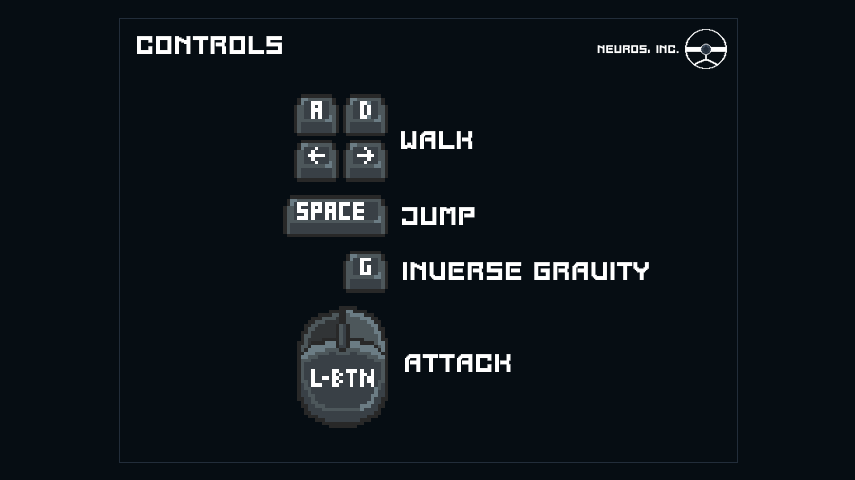
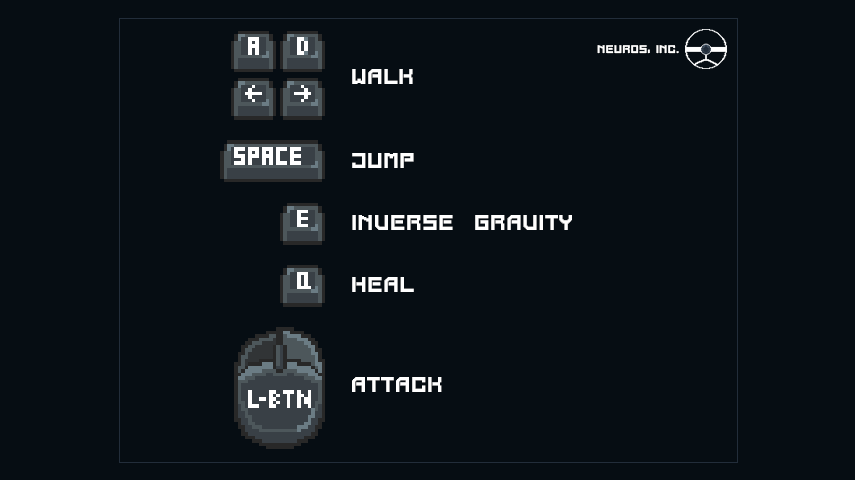
tutorial und fixes

Changed region(s): [[0.152, 0.0625, 0.7602, 0.9375], [0.7602, 0.0938, 0.7906, 0.125], [0.6994, 0.0938, 0.7298, 0.125]]

diff --git a/game/enemies/guard.py b/game/enemies/guard.py
@@ -1,5 +1,4 @@
 import pygame
-
 from game.enemies.enemy_registry import register_enemy
 from game.entities import Entity
 
@@ -10,18 +9,12 @@ class Guard(Entity):
         self.player = player
         self.level = level
         self.speed = 40
-        self.jump_force = 160
         self.damage = 1
         self.detection_range = 8  # Distance to start chasing the player
         self.kb_x = 3
         self.kb_y = 2
-        self.max_health =  6
+        self.max_health = 6
         self.health = self.max_health
-
-        # AI flags
-        self.has_jumped = True
-        self.drop = False
-        self.obstacle = False
 
         # animations
         self.state = "run"
@@ -31,47 +24,39 @@ class Guard(Entity):
 
     def update(self, level, dt):
         """Handles enemy movement and AI behavior."""
-        if self.velocity.x > 0:
-            self.facing_right = True
-        elif self.velocity.x < 0:
-            self.facing_right = False
+        if not self.is_dying:
+            if self.velocity.x > 0:
+                self.facing_right = True
+            elif self.velocity.x < 0:
+                self.facing_right = False
 
-        # Chase player if nearby
-        distance_to_player = pygame.Vector2(self.rect.midbottom).distance_to(self.player.rect.midtop)
-        if not self.stun:
-            if distance_to_player < self.detection_range * self.level.tile_size:
-                self.chase_player(dt)
-                self.set_state("follow")
-            else:
-                self.patrol(level, dt)
-                self.set_state("run")
+            # Chase player if nearby
+            distance_to_player = pygame.Vector2(self.rect.midbottom).distance_to(self.player.rect.midtop)
+            if not self.stun:
+                if distance_to_player < self.detection_range * self.level.tile_size:
+                    self.chase_player(dt)
+                    self.set_state("follow")
+                else:
+                    self.patrol(level, dt)
+                    self.set_state("run")
 
-        if self.on_ground:
-            self.has_jumped = False
-
-        # Jump over obstacles or gaps
-        if self.drop and not self.has_jumped:
-            self.jump(dt, 15 * self.speed, 120, level.gravity >= 0)
-            self.has_jumped = True
-        elif self.obstacle and not self.has_jumped:
-            self.jump(dt, 0, 200, level.gravity >= 0)
-            self.has_jumped = True
+            # Attack player if touching them
+            if self.rect.colliderect(self.player.rect):
+                self.attack()
 
         super().update(level, dt)
 
-        # Attack player if touching them
-        if self.rect.colliderect(self.player.rect):
-            self.attack()
-
     def patrol(self, level, dt):
-        """Moves the enemy left and right, reversing direction on collisions."""
-        if self.facing_right:
-            self.velocity.x = self.speed * dt
-        else:
-            self.velocity.x = -self.speed * dt
+        """Moves the enemy left and right, reversing direction on collisions or drops."""
+        dir_str = "right" if self.facing_right else "left"
+        safe = self.is_direction_safe(level, dir_str)
 
-        if not self.is_direction_safe(level, "right" if self.facing_right else "left"):
-            self.velocity.x *= -1
+        if safe:
+            # Nur setzen, wenn der Guard sich wirklich bewegen darf
+            self.velocity.x = self.speed * dt if self.facing_right else -self.speed * dt
+        else:
+            # Bleib stehen, damit er nicht "zittert", und dreh erst nach kurzer Pause um
+            self.velocity.x = 0
             self.facing_right = not self.facing_right
 
     def chase_player(self, dt):
@@ -85,16 +70,5 @@ class Guard(Entity):
         """Handles enemy attacking logic."""
         if self.player.immunity_frames:
             return
-        self.sound_manager.play_sfx("guard_attack")  # Philippcode
+        self.sound_manager.play_sfx("guard_attack")
         self.player.hit(self)
-
-    def jump(self, dt, x_vel, y_vel, sgn):
-        """Applies jump force to the enemy."""
-        if self.facing_right:
-            self.velocity.x = x_vel * dt
-        else:
-            self.velocity.x = -x_vel * dt
-        if not sgn:
-            y_vel *= -1
-
-        self.velocity.y = -y_vel * dt

diff --git a/game/entities.py b/game/entities.py
@@ -53,30 +53,34 @@ class Entity(pygame.sprite.Sprite):
         self.load_sprites(sprite_path)
 
     def is_direction_safe(self, level, direction: str):
-        """Checks if an AI can move in the given direction."""
-        buffer = 1
+        """Checks if an AI can move safely in the given direction without falling or hitting a wall."""
         tile_size = level.tile_size
+        buffer = 4  # besser als 1 Pixel, verhindert Kantenprobleme
 
-        # Horizontal direction
-        dx = self.rect.width + buffer if direction == "right" else -buffer
-        front_x = self.rect.centerx + dx
+        # --- 1. Berechne horizontale Vorwärtsposition ---
+        if direction == "right":
+            front_x = self.rect.right + buffer
+        else:
+            front_x = self.rect.left - buffer
 
-        # Check for wall ahead
-        wall_probe_y = self.rect.centery
-        front_tile = level.get_tile_at(front_x, wall_probe_y)
-        if front_tile and getattr(front_tile, "solid", False):
-            return False  # Wall ahead
+        # --- 2. Wandprüfung auf Höhe der Mitte ---
+        mid_y = self.rect.centery
+        wall_tile = level.get_tile_at(int(front_x), int(mid_y))
+        if wall_tile and getattr(wall_tile, "solid", False):
+            return False  # Wand voraus
 
-        # Check for drop ahead
-        foot_y = self.rect.top if self.is_flipped else self.rect.bottom
-        dy = -tile_size if self.is_flipped else tile_size
-        drop_probe_y = foot_y + dy
+        # --- 3. Bodenprüfung: prüfe 1–2 Blöcke unter dem Fußniveau ---
+        foot_y = self.rect.bottom
+        ground_hits = 0
 
-        foot_tile = level.get_tile_at(front_x, drop_probe_y)
-        if not foot_tile or not getattr(foot_tile, "solid", False):
-            return False  # Drop ahead
+        for i in range(1, 3):  # Prüfe 1 bis 2 Blöcke unterhalb
+            probe_y = foot_y + i * tile_size
+            tile = level.get_tile_at(int(front_x), int(probe_y))
+            if tile and getattr(tile, "solid", False):
+                ground_hits += 1
 
-        return True
+        # --- 4. Entscheide basierend auf Treffer ---
+        return ground_hits > 0
 
     def load_sprite_metadata(self, sprite_path, json_path):
         """Load metadata like entity_size and scale from the JSON config."""

diff --git a/core/engine.py b/core/engine.py
@@ -241,9 +241,13 @@ class GameEngine:
         self.timer += 1
         self.fps = get_game_data("fps")
         self.dt = 1 / self.fps
+
         if self.slide_mode:
             self.slide_timer += 1
-            total_time = self.slide_fade_duration * 2 + self.slide_display_duration
+
+            multiplier = 2 if self.slide_mode == "tutorial" else 1
+            total_time = self.slide_fade_duration * 2 + self.slide_display_duration * multiplier
+
             if self.slide_timer >= total_time:
                 self.slide_timer = 0
                 self.next_slide()
@@ -337,12 +341,17 @@ class GameEngine:
     def render_tutorial(self, screen):
         screen.fill((0, 0, 0))
         if self.tutorial_index < len(self.tutorial_images):
+            multiplier = 2 if self.slide_mode == "tutorial" else 1
+            display_time = self.slide_display_duration * multiplier
+            fade_duration = self.slide_fade_duration
+
             alpha = self.font_manager.fade_alpha(
                 self.slide_timer,
-                self.slide_fade_duration,
-                self.slide_display_duration,
-                self.slide_fade_duration
+                fade_duration,
+                display_time,
+                fade_duration
             )
+
             img = self.tutorial_images[self.tutorial_index].copy()
             img.set_alpha(alpha)
             rect = img.get_rect(center=(screen.get_width() // 2, screen.get_height() // 2))

diff --git a/game/enemies/charger.py b/game/enemies/charger.py
@@ -37,7 +37,9 @@ class Charger(Entity):
         self.patrol_speed_variation = random.uniform(0.8, 1.2)
 
     def update(self, level, dt):
-        
+        if self.is_dying:
+            super().update(level, dt)
+            return
         if self.velocity.x > 0:
             self.facing_right = True
         elif self.velocity.x < 0:
@@ -194,6 +196,5 @@ class Charger(Entity):
             self.sound_manager.play_sfx("charger_attack")
             self.player.hit(self)
 
-    def hit(self, attacker, stun = 0):
-        if self.stun != 0:
-            super().hit(attacker, 0)
+    def hit(self, attacker, stun=0):
+        super().hit(attacker, stun if self.stun == 0 else 0)

diff --git a/game/abilities.py b/game/abilities.py
@@ -45,7 +45,9 @@ class HealAbility(Ability):
     def activate(self):
         if not self.can_activate():
             return False
+        if self.player.health == self.player.max_health:
+            return False
+        self.player.health = self.player.health + 1
         self.sound_manager.play_sfx("heal")
-        self.player.health = min(self.player.health + 1, self.player.max_health)
         self.current_cooldown = self.cooldown
         return True

diff --git a/game/user_interface.py b/game/user_interface.py
@@ -85,7 +85,7 @@ class UI:
         """Pause button input handling."""
         if event.type == pygame.MOUSEBUTTONDOWN:
             pause_rect = pygame.Rect(20, 20, self.button_size, self.button_size)
-            if pause_rect.collidepoint(event.pos):
+            if pause_rect.collidepoint(engine.get_scaled_mouse()):
                 engine.menu.toggle_menu(MenuState.PAUSE, engine)
                 self.sound_manager.play_sfx("button_click")
 

diff --git a/game/enemies/turret.py b/game/enemies/turret.py
@@ -67,7 +67,7 @@ class Turret(Entity):
             self.eliminate()
             return
         
-        self.facing_right = not (self.rotation_angle > 90 and self.rotation_angle < 270)
+        self.facing_right = not (90 < self.rotation_angle < 270)
 
         distance = pygame.Vector2(self.rect.center).distance_to(self.player.rect.center)
         in_range = distance <= self.attack_range and self.line_of_sight()

diff --git a/game/enemies/battery.py b/game/enemies/battery.py
@@ -33,6 +33,9 @@ class Battery(Entity):
 
 
     def update(self, level, dt):
+        if self.is_dying:
+            super().update(level, dt)
+            return
         if self.stun > 0:
             self.stun -= 1
             self.velocity.x = 0
